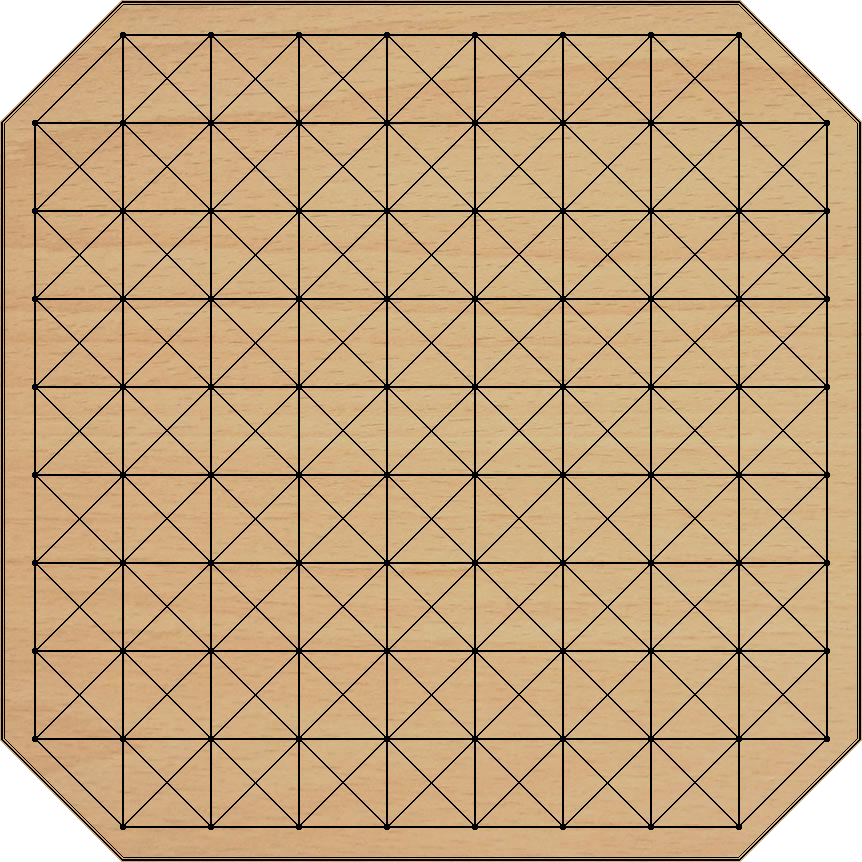
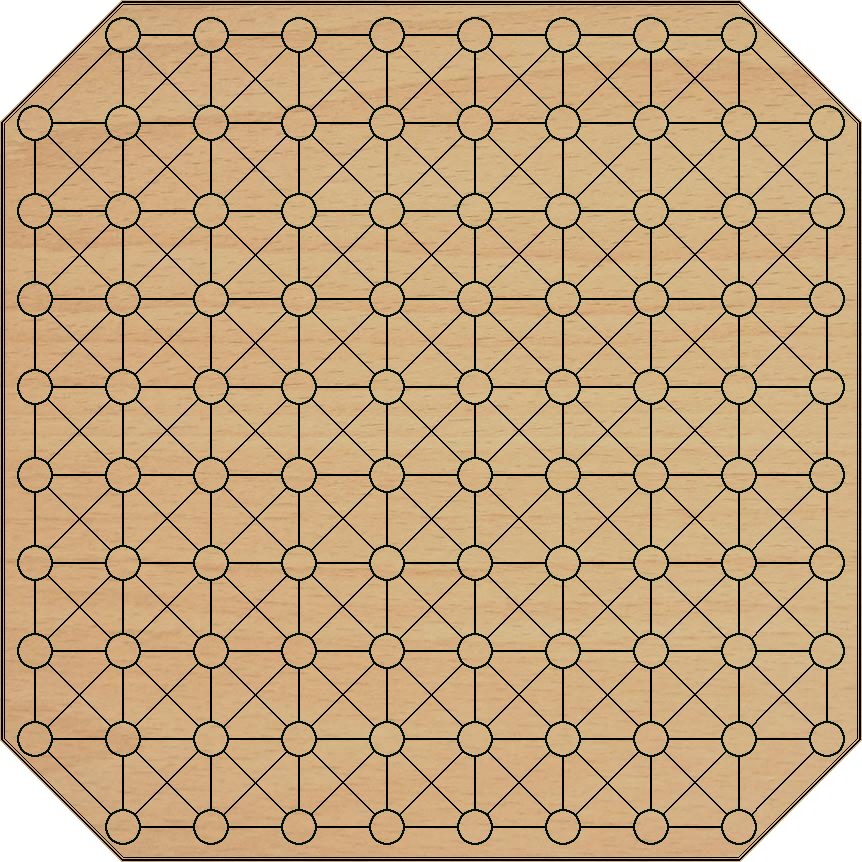
Bushi (resources)

diff --git a/src/debug/games/races/bushi.js b/src/debug/games/races/bushi.js
@@ -1,3 +1,5 @@
+Dagaz.View.MARK_R = 18;
+
 ZRF = {
     JUMP:          0,
     IF:            1,
